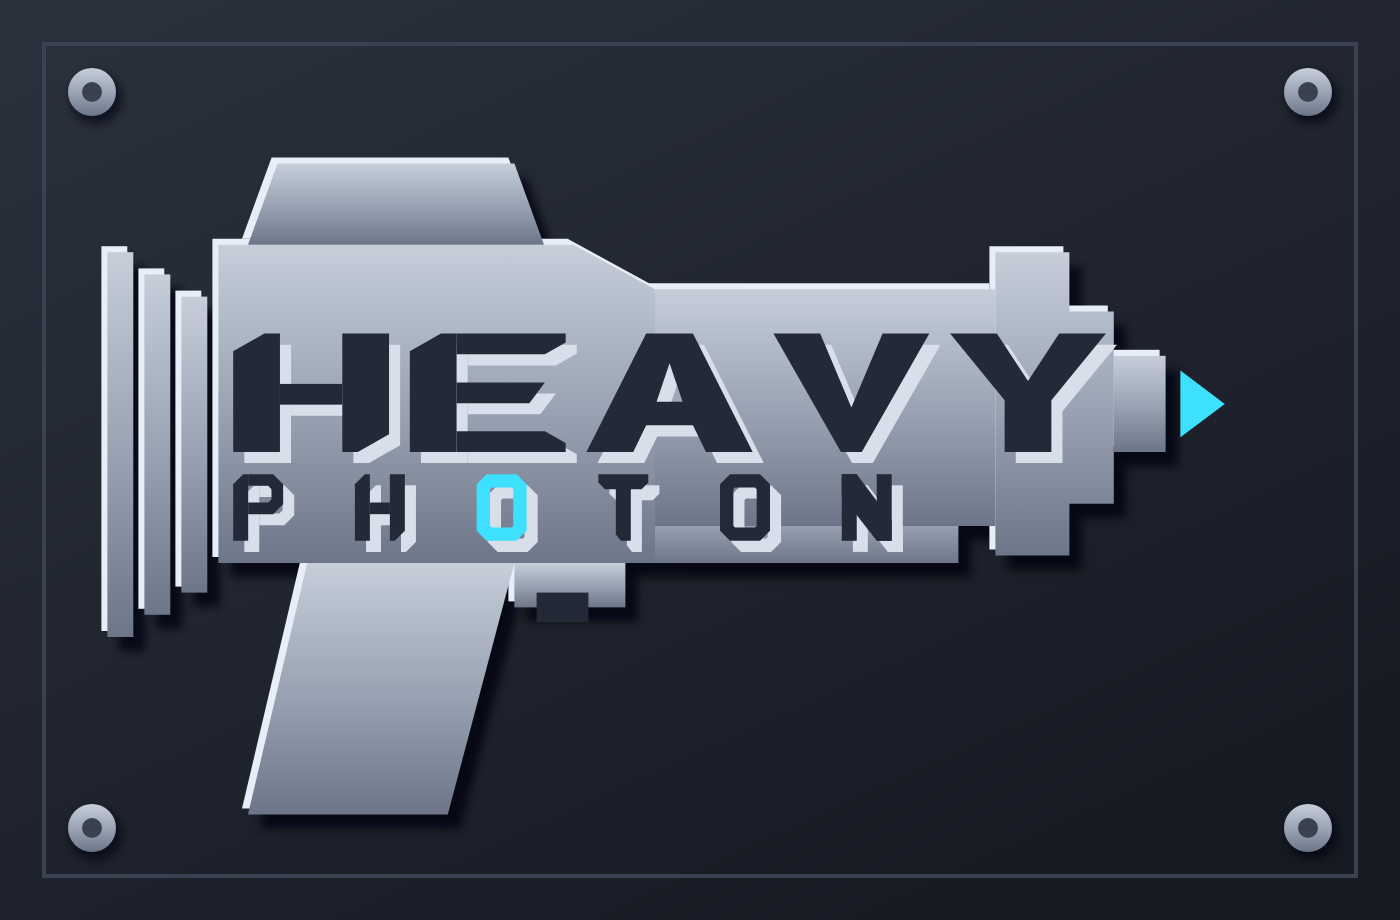
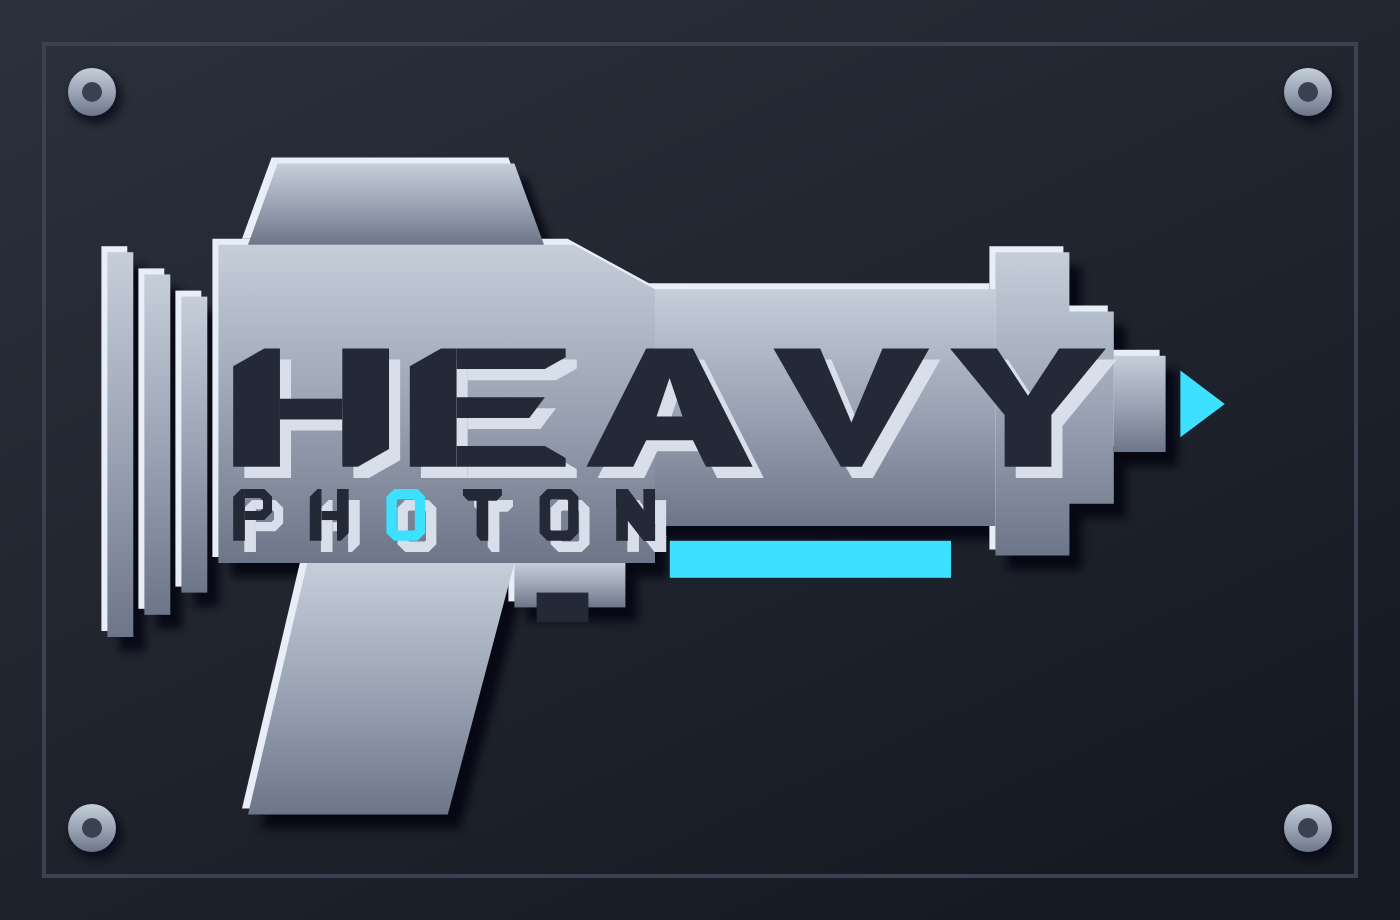
Revert compact cut to pre-shelf design
The compact lockup goes back to PHOTON tucked small under the HEA with
the original gun underside; the shelf experiment is archived as
iterations/compact-*-iter2-shelf.* The branded beam cuts keep the
shelf. Generator updated so compact regenerates the reverted design.

Claude-Session: https://claude.ai/code/session_01GDhheF8L6mvevw6cngMkTc

Changed region(s): [[0.1536, 0.3348, 0.7986, 0.6391], [0.7064, 0.487, 0.7679, 0.5174]]

diff --git a/branding/genlogos.py b/branding/genlogos.py
@@ -277,15 +277,16 @@ def scanmask(mid, w, y=46):
             f'fill="#000"/></mask>')
 
 # ================================================================ raygun v2
-def raygun2_struct(fat=False):
+def raygun2_struct(fat=False, shelf=None):
     """Gun structural shapes, no fills (inherit from parent), ~300x220 box.
     fat=True deepens the barrel band (y76-140 vs y84-132) so a full-height
-    brand stamp fits across the gun with clear margins."""
+    brand stamp fits across the gun with clear margins. shelf=True (default
+    when fat) grows a lower shelf under the barrel so the underside runs
+    flat to x232."""
+    shelf = fat if shelf is None else shelf
     bt, bb = (76, 140) if fat else (84, 132)     # barrel top/bottom
     lt, lb = (82, 134) if fat else (84, 130)     # muzzle inner lips
-    # fat gun grows a lower shelf under the barrel: the gun's underside runs
-    # flat to x232, giving the small PHOTON tag a full-width surface
-    shelf = '<path d="M150,128 L232,128 L232,150 L150,150 Z"/>' if fat else ""
+    shelf = '<path d="M150,128 L232,128 L232,150 L150,150 Z"/>' if shelf else ""
     fins = "".join(f'<rect x="{2+i*10}" y="{66+i*6}" width="7" height="{104-i*12}"/>'
                    for i in range(3))
     return (fins + shelf +
@@ -503,12 +504,12 @@ BR = {
 }
 BR["wsp"] = ((1520 - BR["wtx"]) / BR["ws"] - 360) / 5   # justify PHOTON in beam
 
-def brand_heavy(brand_fill):
+def brand_heavy(brand_fill, y=88):
     """HEAVY stamp spanning the full gun length, cap 32 centered in the fat
-    barrel band (y76-140): 16 units of clear surface above AND below."""
+    barrel band (y76-140): clear surface above AND below."""
     wmB, _, _ = wordmark2("HEAVY", 8)
     return (f'<g fill="{brand_fill}" '
-            f'transform="translate(36 88) scale(0.702 0.4)">{wmB}</g>')
+            f'transform="translate(36 {y}) scale(0.702 0.4)">{wmB}</g>')
 
 def branded_gun(fill, accent, brand_fill, notch_fill):
     """Gun with HEAVY stamped on the body (vents dropped for the brand)."""
@@ -609,21 +610,20 @@ raygun_v2_branded_steel()
 CP = {"gun_t": "translate(50 4) scale(1.85)", "W": 700, "H": 460}
 
 def brand_photon_small(fill, accent):
-    """Small tracked-out PHOTON along the extended lower shelf: cap 18,
-    spanning x36-214 with clear surface above and below."""
-    wmS, _, _ = wordmark2("PHOTON", 86.2, accents={2}, accent_fill=accent)
+    """Small tracked-out PHOTON under HEA: cap 14, ends before the rail."""
+    wmS, _, _ = wordmark2("PHOTON", 58.3, accents={2}, accent_fill=accent)
     return (f'<g fill="{fill}" '
-            f'transform="translate(36 126) scale(0.225)">{wmS}</g>')
+            f'transform="translate(36 130) scale(0.175)">{wmS}</g>')
 
 CHARGE_TICK = 'M292,98 L304,107 L292,116 Z'
 
 def raygun_v2_compact():
     W, H = CP["W"], CP["H"]
     body = [f'<g transform="{CP["gun_t"]}">'
-            f'<g fill="{BONE}">{raygun2_struct(fat=True)}</g>'
-            f'{raygun2_energy(CYAN, vents=False, rail=False)}'
+            f'<g fill="{BONE}">{raygun2_struct(fat=True, shelf=False)}</g>'
+            f'{raygun2_energy(CYAN, vents=False, rail_y=144)}'
             f'<rect x="118" y="158" width="14" height="8" fill="{INK}"/>'
-            f'{brand_heavy(INK)}'
+            f'{brand_heavy(INK, 92)}'
             f'{brand_photon_small(INK, CYAN)}'
             f'<path d="{CHARGE_TICK}" fill="{CYAN}"/></g>']
     svg_file("raygun-v2-compact.svg", W, H, "".join(body), bg=INK)
@@ -651,18 +651,19 @@ def raygun_v2_compact_steel():
                     f'opacity="0.6" filter="url(#soften3)"/>'
                     f'<circle cx="{bx}" cy="{by}" r="12" fill="url(#steel3)"/>'
                     f'<circle cx="{bx}" cy="{by}" r="5" fill="#3A4150"/>')
-    content = f'<g transform="{CP["gun_t"]}">{raygun2_struct(fat=True)}</g>'
+    content = (f'<g transform="{CP["gun_t"]}">'
+               f'{raygun2_struct(fat=True, shelf=False)}</g>')
     body.append(f'<g fill="#04060A" opacity="0.75" filter="url(#soften3)" '
                 f'transform="translate(6 7)">{content}</g>')
     body.append(f'<g fill="#E8EEF7" transform="translate(-3 -3)">{content}</g>')
     body.append(f'<g fill="url(#steel3)">{content}</g>')
     body.append(f'<g transform="{CP["gun_t"]}">'
-                f'<g transform="translate(3 3)">{brand_heavy("#D8DFEA")}'
+                f'<g transform="translate(3 3)">{brand_heavy("#D8DFEA", 92)}'
                 f'{brand_photon_small("#D8DFEA", "#D8DFEA")}</g>'
-                f'{brand_heavy("#232936")}'
+                f'{brand_heavy("#232936", 92)}'
                 f'{brand_photon_small("#232936", CYAN)}'
                 f'<rect x="118" y="158" width="14" height="8" fill="#232936"/>'
-                f'{raygun2_energy(CYAN, vents=False, rail=False)}'
+                f'{raygun2_energy(CYAN, vents=False, rail_y=144)}'
                 f'<path d="{CHARGE_TICK}" fill="{CYAN}"/></g>')
     svg_file("raygun-v2-compact-steel.svg", W, H, "".join(body))
 

diff --git a/branding/README.md b/branding/README.md
@@ -25,7 +25,7 @@ blade-cut terminals, pointed A/V), accent-lit letters, and no GAMES line:
 | 03.5 | `raygun-v2-embossed.svg` | **Stamped Steel** — the mainline lockup embossed into a bolted gunmetal plate, cyan energy still glowing. |
 | 03.6 | `raygun-v2-branded.svg` | **Branded** — HEAVY stretched across the full gun; PHOTON in raised 3D relief on one big fat beam, first O solid bone. |
 | 03.7 | `raygun-v2-branded-steel.svg` | **Branded Steel** — the branded cut on the plate; HEAVY debossed across the gun, PHOTON in raised steel relief on the glowing beam, first O in glowing bone. |
-| 03.8 | `raygun-v2-compact.svg` | **Compact** — gun-only lockup: HEAVY across the gun, PHOTON small and letterspaced under the HEA, charge tick at the muzzle. |
+| 03.8 | `raygun-v2-compact.svg` | **Compact** — gun-only lockup: HEAVY across the gun, PHOTON small and letterspaced tucked under the HEA, charge tick at the muzzle. |
 | 03.9 | `raygun-v2-compact-steel.svg` | **Compact Steel** — the compact cut debossed on the bolted plate. |
 
 ## Iteration archive
@@ -35,7 +35,11 @@ blade-cut terminals, pointed A/V), accent-lit letters, and no GAMES line:
 
 - `*-iter1-preshelf.*` — the branded and compact cuts as they were before
   the gun grew its extended lower shelf (compact had PHOTON tucked small
-  under the HEA; branded had the pre-shelf gun profile).
+  under the HEA; branded had the pre-shelf gun profile). The compact
+  mainline was later reverted to this design.
+- `compact-*-iter2-shelf.*` — the retired shelf experiment for the compact
+  cut (PHOTON stretched along a widened gun underside). The branded beam
+  cuts kept the shelf; the compact went back to iter1.
 
 ## PNG exports
 
